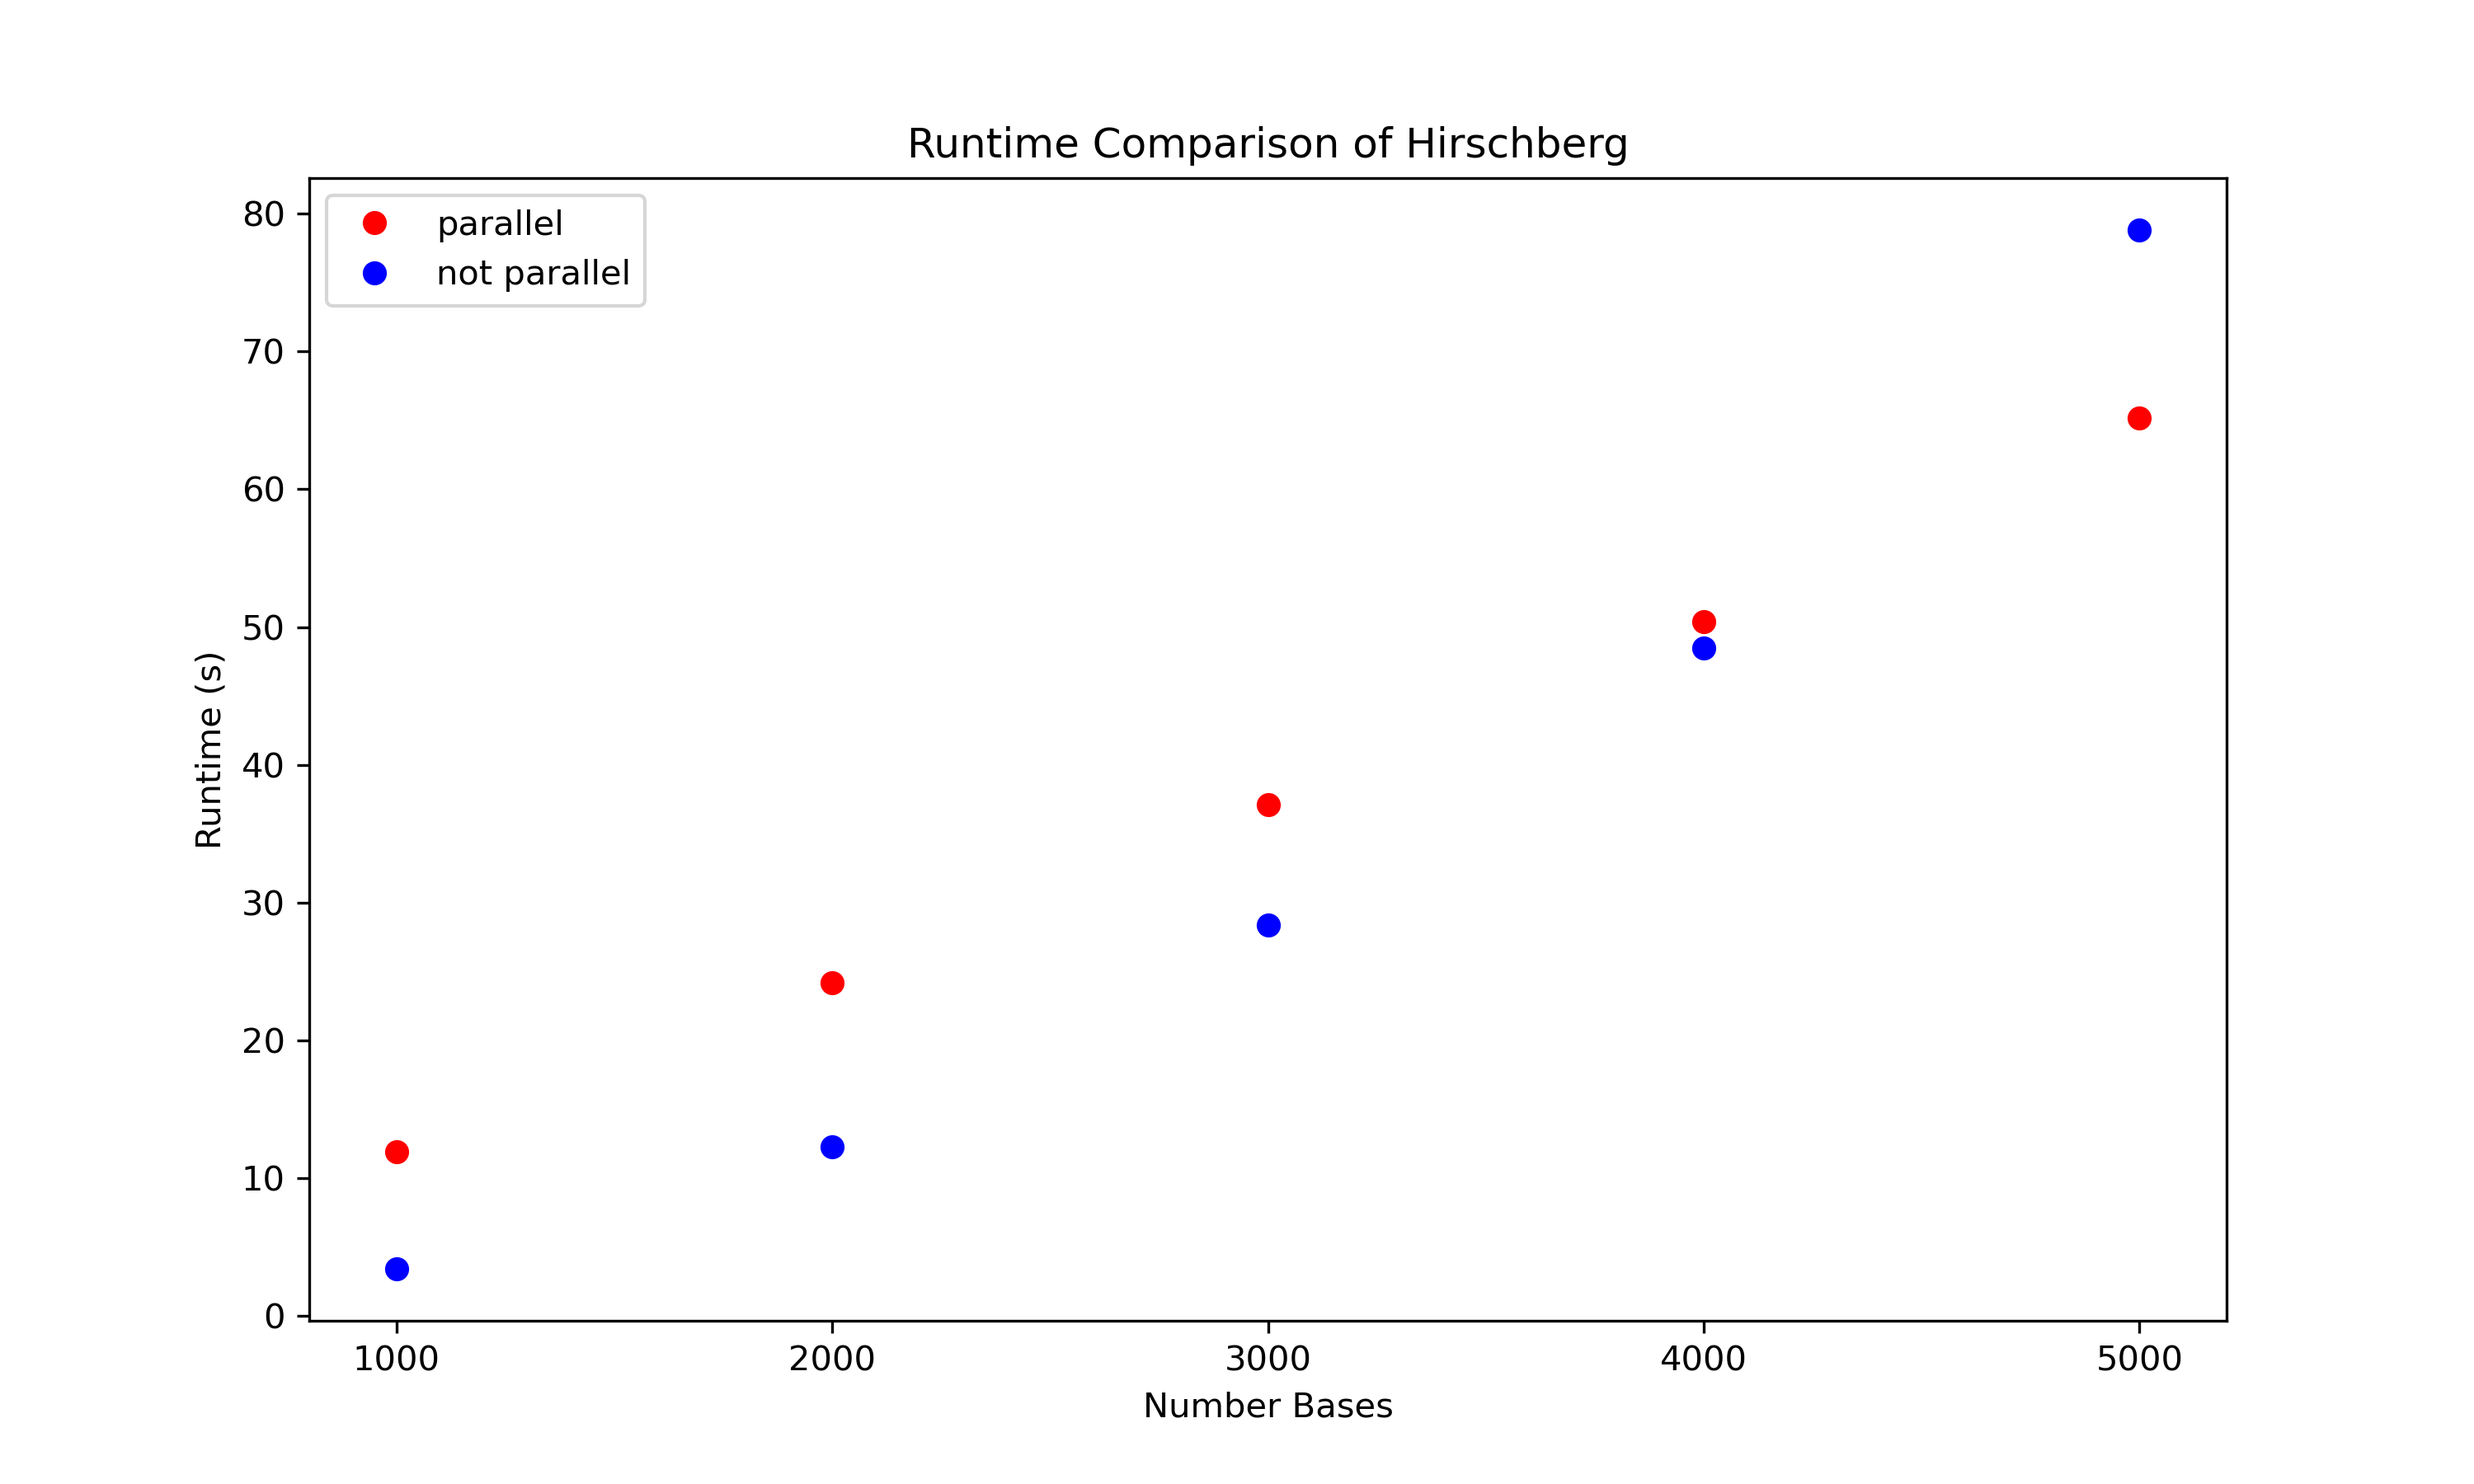
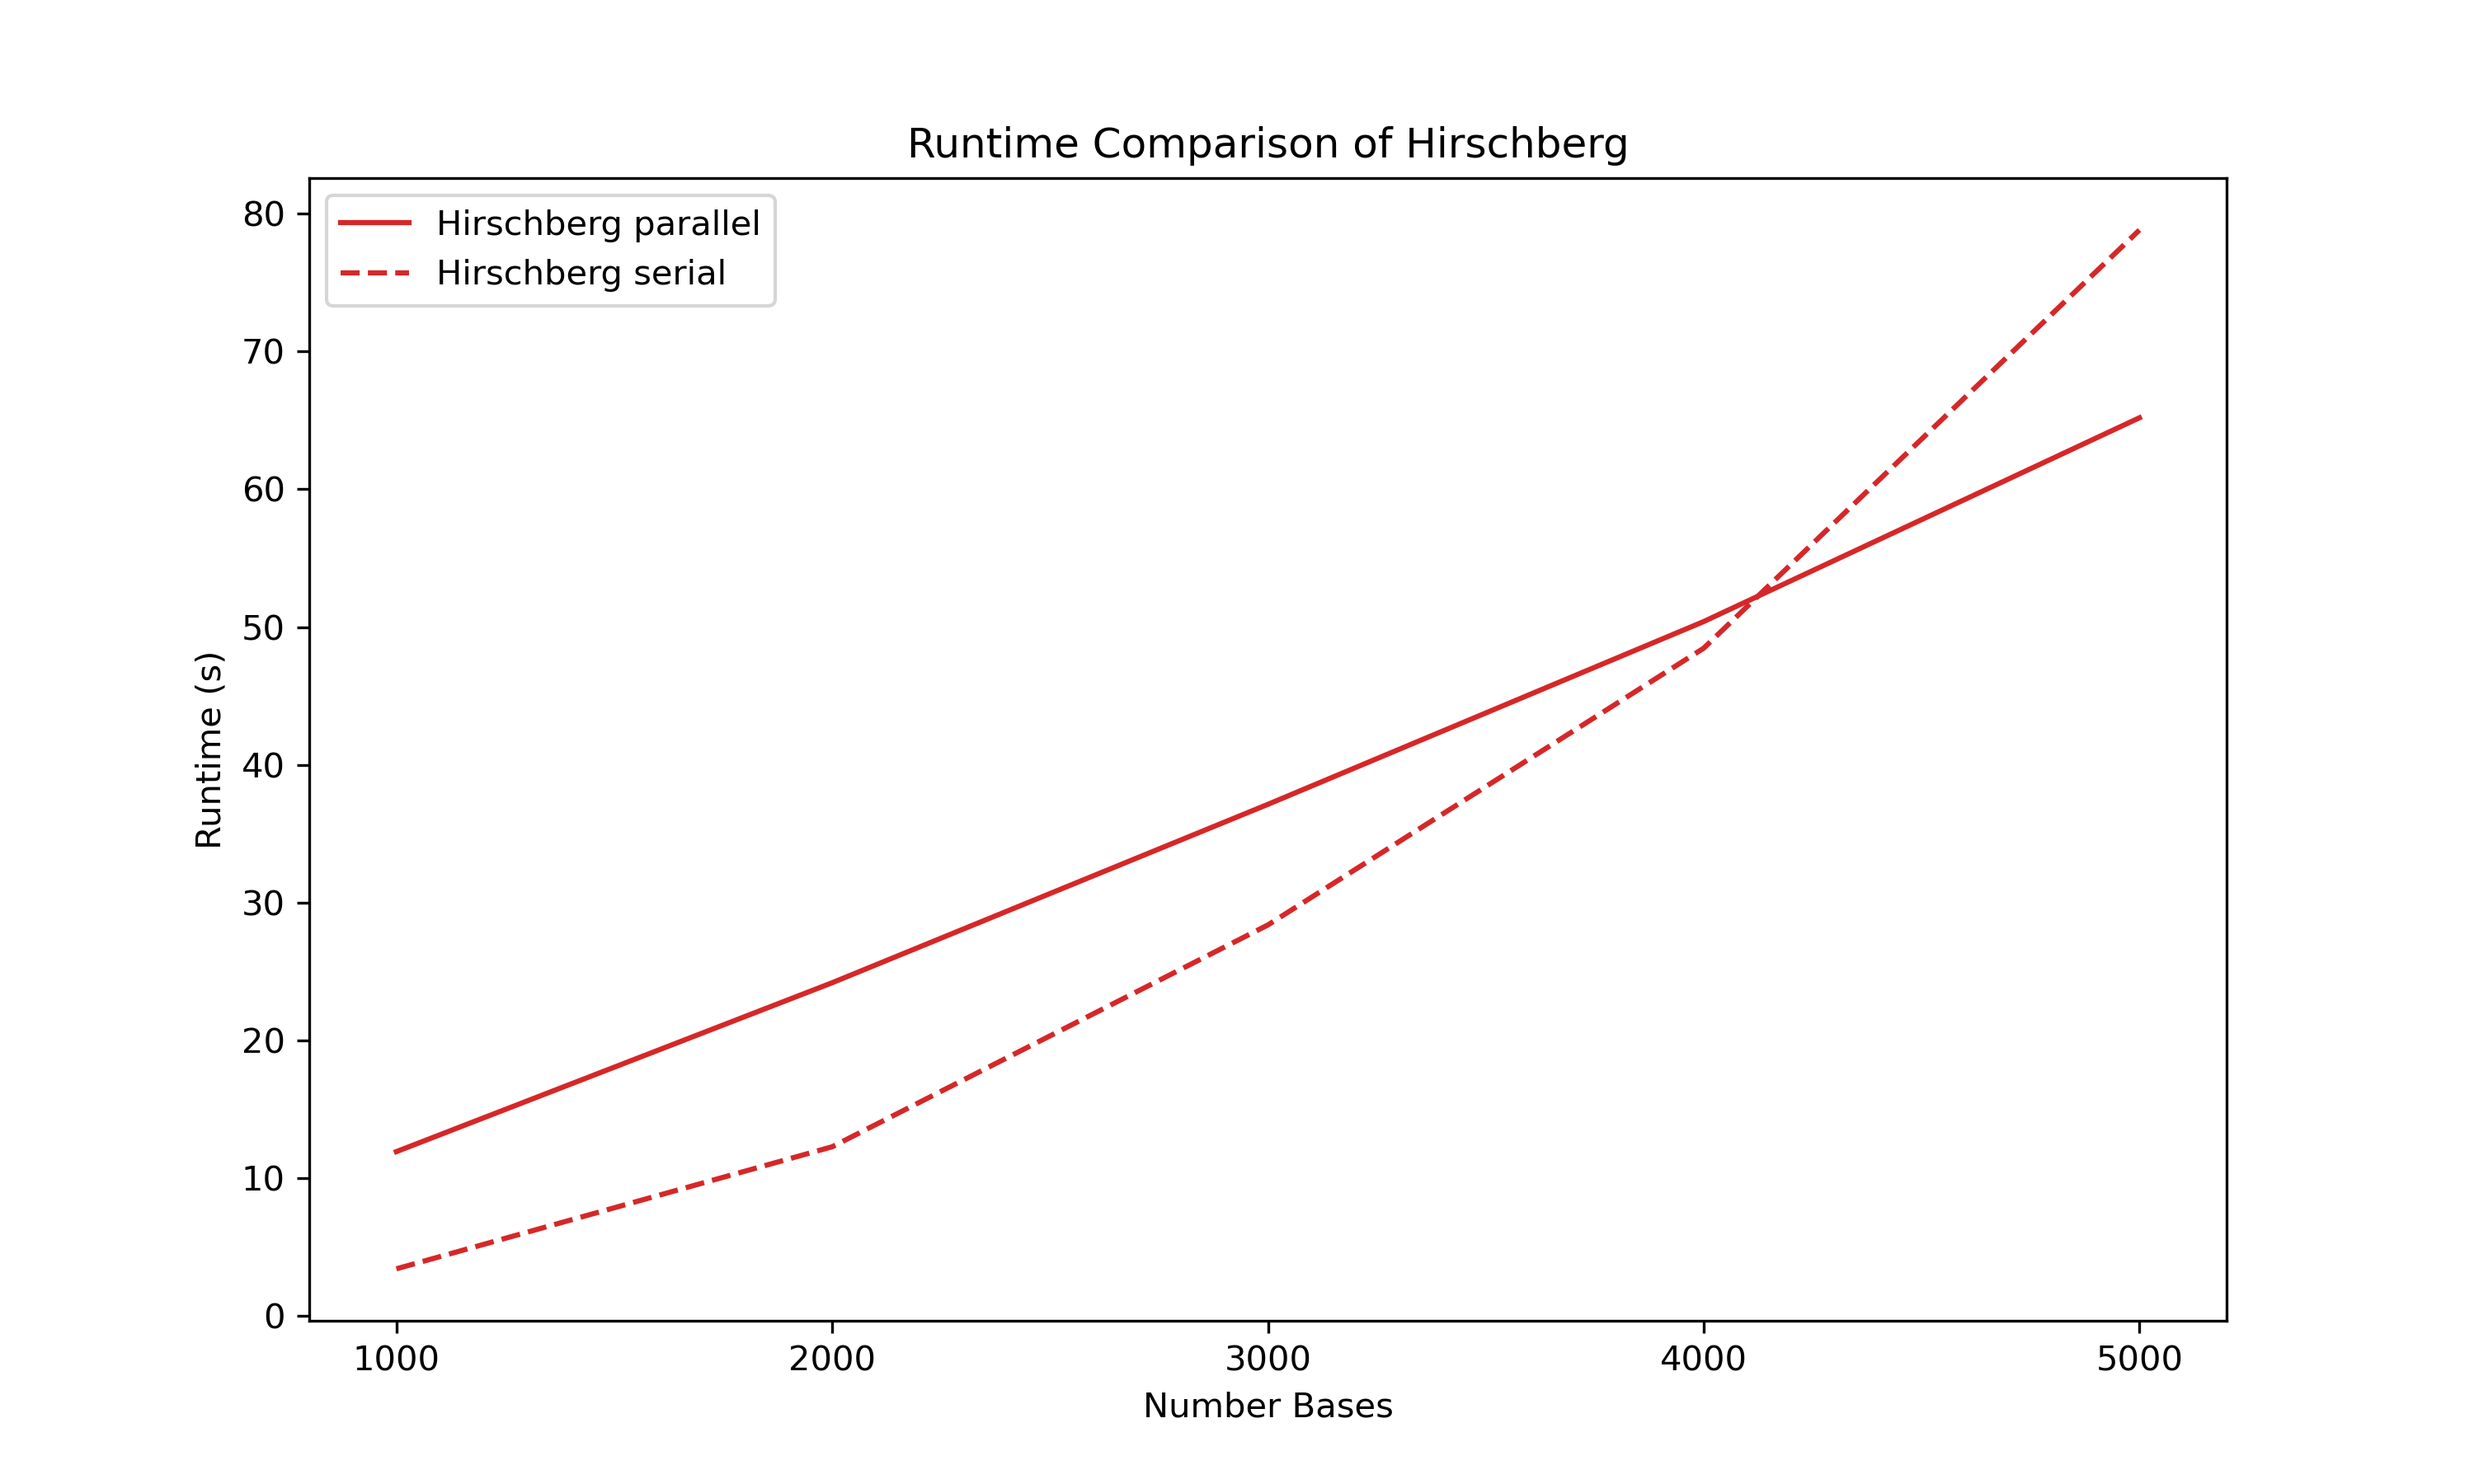
made the graphs better for the presentation

diff --git a/make_graphs.py b/make_graphs.py
@@ -1,36 +1,61 @@
-import os
-import time
-import subprocess
 import csv
 import matplotlib.pyplot as plt
 import pandas as pd
 import numpy as np
+import matplotlib.colors as mcolors
 
 # Load results from CSV
 data_parallel = pd.read_csv('runtime_results_parallel.csv', skiprows=1, names=['test_type','test_length_file', 'time'])
 data_not_parallel = pd.read_csv('runtime_results_not_parallel.csv', skiprows=1, names=['test_type','test_length_file', 'time'])
 
+method_types = ['Hirschberg','Local', 'Global', 'Affine']
+colors = list(mcolors.TABLEAU_COLORS.values())
 
-methods = data_parallel['test_type'].unique()
-print(methods)
-
-# Plot runtimes for each method
-for method in methods:
+for method in method_types:
     fig = plt.figure(figsize=(10, 6))
-    method_data_parallel = data_parallel[data_parallel['test_type'] == method]
-    method_data_not_parallel = data_not_parallel[data_not_parallel['test_type'] == method]
-    # Extract input lengths from file names
-    method_data_parallel['test_length_file'] = method_data_parallel['test_length_file'].str.extract(r'(\d+)').astype(int)
-    method_data_not_parallel['test_length_file'] = method_data_not_parallel['test_length_file'].str.extract(r'(\d+)').astype(int)
+    if method != 'Hirschberg':
+        unique_modes = {0, 1, 2}
+        for idx, mode in enumerate(unique_modes):
+            color_base = colors[idx % len(colors)]  # Rotate through colors if there are more modes than colors
+        
+            # Filter parallel and non-parallel data for the current mode
+            method_data_parallel = data_parallel[data_parallel['test_type'] == f"{method}_{mode}"]
+            method_data_not_parallel = data_not_parallel[data_not_parallel['test_type'] == f"{method}_{mode}"]
+
+            # Extract input lengths from file names
+            method_data_parallel['test_length_file'] = method_data_parallel['test_length_file'].str.extract(r'(\d+)').astype(int)
+            method_data_not_parallel['test_length_file'] = method_data_not_parallel['test_length_file'].str.extract(r'(\d+)').astype(int)
+
+            method_data_parallel = method_data_parallel.sort_values(by='test_length_file')
+            method_data_not_parallel = method_data_not_parallel.sort_values(by='test_length_file')
+
+            plt.plot(method_data_parallel['test_length_file'], method_data_parallel['time'], color=color_base, label=f'{method}_{mode} parallel', linestyle='-')
+            plt.plot(method_data_not_parallel['test_length_file'], method_data_not_parallel['time'], color=color_base, label=f'{method}_{mode} serial', linestyle='--')
+        plt.xlabel("Number Bases")
+        plt.ylabel("Runtime (s)")
+        plt.xticks(np.linspace(1000, 5000, 5).astype(int))
+        plt.title(f"Runtime Comparison of {method}")
+        plt.legend()
+        plt.savefig(f'runtime_plot_{method}.png', format='png', dpi=300)
+    else:
+        color_base = colors[3 % len(colors)]
+        fig = plt.figure(figsize=(10, 6))
+        method_data_parallel = data_parallel[data_parallel['test_type'] == method]
+        method_data_not_parallel = data_not_parallel[data_not_parallel['test_type'] == method]
+        # Extract input lengths from file names
+        method_data_parallel['test_length_file'] = method_data_parallel['test_length_file'].str.extract(r'(\d+)').astype(int)
+        method_data_not_parallel['test_length_file'] = method_data_not_parallel['test_length_file'].str.extract(r'(\d+)').astype(int)
     
-    # Sort by input length
-    method_data_parallel = method_data_parallel.sort_values(by='test_length_file')
-    method_data_not_parallel = method_data_not_parallel.sort_values(by='test_length_file')
-    plt.plot(method_data_parallel['test_length_file'], method_data_parallel['time'], 'ro', label='parallel')
-    plt.plot(method_data_not_parallel['test_length_file'], method_data_not_parallel['time'], 'bo', label='not parallel')
-    plt.xlabel("Number Bases")
-    plt.ylabel("Runtime (s)")
-    plt.xticks(np.linspace(method_data_parallel['test_length_file'].min(), method_data_parallel['test_length_file'].max(), 5).astype(int))
-    plt.title(f"Runtime Comparison of {method}")
-    plt.legend()
-    plt.savefig(f'runtime_plot_{method}.png', format='png', dpi=300)
+        # Sort by input length
+        method_data_parallel = method_data_parallel.sort_values(by='test_length_file')
+        method_data_not_parallel = method_data_not_parallel.sort_values(by='test_length_file')
+        plt.plot(method_data_parallel['test_length_file'], method_data_parallel['time'], color=color_base, label=f'{method} parallel', linestyle='-')
+        plt.plot(method_data_not_parallel['test_length_file'], method_data_not_parallel['time'], color=color_base, label=f'{method} serial', linestyle='--')
+    
+        plt.xlabel("Number Bases")
+        plt.ylabel("Runtime (s)")
+        plt.xticks(np.linspace(1000, 5000, 5).astype(int))
+        plt.title(f"Runtime Comparison of {method}")
+        plt.legend()
+        plt.savefig(f'runtime_plot_{method}.png', format='png', dpi=300)
+    
